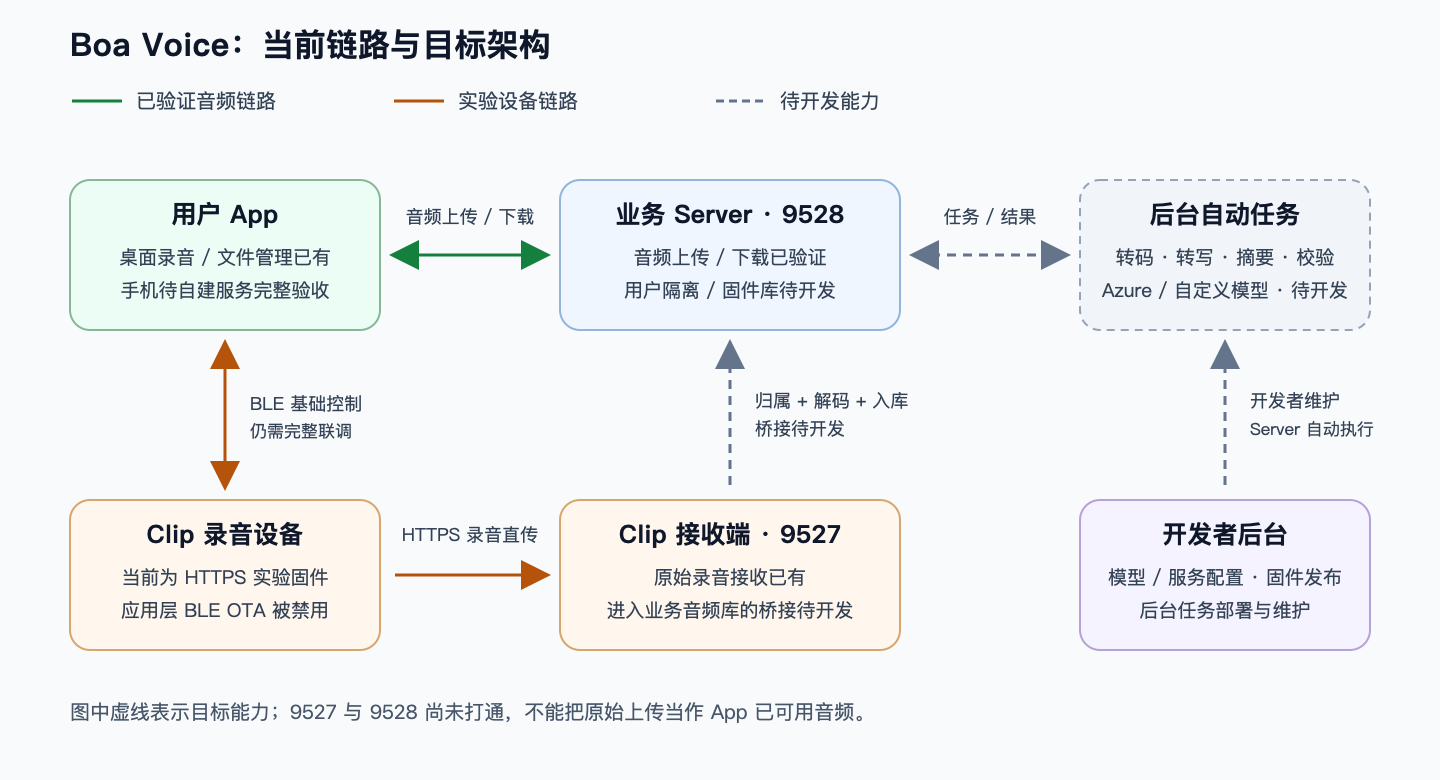
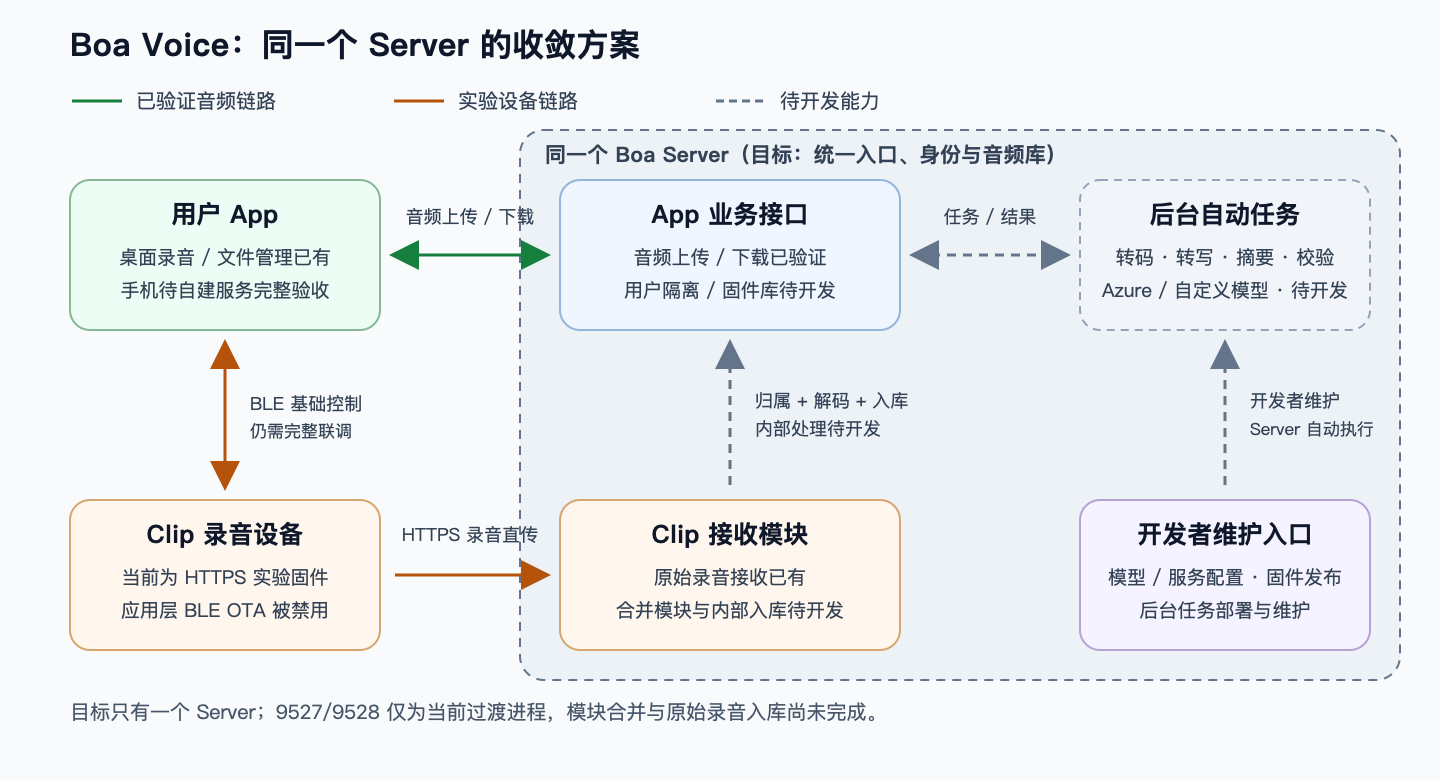
docs: converge Clip ingest and business modules into one Boa Server

diff --git a/docs/product/boa-voice-overview.md b/docs/product/boa-voice-overview.md
@@ -6,14 +6,16 @@
 
 ## 1. 整体关系
 
-![Boa Voice 当前链路与目标架构](images/boa-voice-overview.png)
+![Boa Voice 同一 Server 收敛架构](images/boa-voice-overview.png)
 
 绿色实线为已验证的音频链路，橙色为实验设备链路，灰色虚线为待开发能力。图中的后台任务由开发者实现、部署和维护，运行时由 Server 自动执行，**不是每条录音都要开发者手工处理**。
 
-两种录音入口最终要汇入同一份用户音频库：
+**最终只有一个 Boa Server。Clip 接收、App 业务接口、音频库、AI 任务和固件管理都是它内部的模块，统一服务地址、用户身份和资源归属；原始录音转成可播放文件也是 Server 内部流程。** 当前同一开发机上的 9527 接收进程与 9528 音频进程尚未合并，这是过渡部署状态。
+
+两种录音入口最终汇入这个 Server 的同一份用户音频库：
 
 - **麦克风路径：**App 录音 → 上传 Server → 用户自己的音频库。这条上传/下载链路已验证。
-- **Clip 路径：**Clip 联网上传 → 原始录音接收 → 确认用户归属、转换标准音频 → 同一音频库。目前只到原始接收，后半段桥接待开发。
+- **Clip 路径：**Clip 联网上传同一个 Server 的接收模块 → 确认用户归属、转换标准音频 → 同一音频库。当前实验原始接收已有，模块合并和后半段入库待开发。
 
 ## 2. 只有两类角色
 
@@ -33,7 +35,7 @@
 | Mac 桌面 App | 已有麦克风录音、暂停/继续、文件管理/播放、自动备份和 Clip 基础连接入口 | 新集成版本完整界面验收；连接自建身份、AI 和固件接口 |
 | Android / iPhone | 仓库已有手机 App 和 SDK，可参考设备连接与升级流程 | 尚未完成自建服务下的双端完整验收 |
 | 音频 Server | 9528 HTTPS，磁盘 + SQLite，分片上传、校验、Range 下载已有；Mac 同一客户端真实跨机器三轮测试通过 | 当前是单用户 token，尚无用户之间的数据隔离；已安装 GUI 未配置当前开发证书 |
-| Clip 直传 | Roger 实验固件已有 STA/HTTPS 录音上传与独立接收服务 | 原始 Opus 不能直接当作 App 音频；需归属、解码和入库桥接，仍需完整硬件联调 |
+| Clip 直传 | Roger 实验固件已有 STA/HTTPS 录音上传；目前接收进程运行在同一开发机的 9527 | 原始 Opus 不能直接当作 App 音频；需归属、解码和入库桥接，仍需完整硬件联调 |
 | 转写 / 摘要 | 已有服务端接口和模型适配设计 | 后台任务、Azure/自定义模型接入和结果展示尚未完成 |
 | 固件管理 | 已有固件库、分发、升级流程设计；SDK 有可参考的升级实现 | 版本库/发布尚未实现；当前 HTTPS 固件拒绝应用 DFU，不能直接开启 BLE OTA |
 
@@ -53,14 +55,16 @@
 
 ## 5. Server 与 endpoint
 
-App 配置业务 Server 根地址；开发环境示例为 `https://100.58.19.213:9528`，路径由客户端追加，不要求用户手填整条 API。
+目标是 App 和 Clip 指向同一个 Server 根地址，由各自协议追加不同路径；App 使用用户身份，Clip 使用绑定该用户的设备凭据。开发环境业务地址当前为 `https://100.58.19.213:9528`；最终入口随部署确定，9527/9528 不是两套产品服务的固定边界。
 
 | 入口 | 用途 | 状态 |
 | --- | --- | --- |
 | `/api/audio` | 标准音频上传、列表和下载 | 已有；保持路径兼容，后续补用户归属校验 |
 | `/api/boa/v1` | 内容处理任务、转写和摘要结果 | 规划中；开发者配置模型与后台执行流程 |
 | `/api/boa/v1/firmware` | 已发布固件、用户设备升级与开发者管理 | 规划中；按用户/开发者两种权限简化 |
-| `https://100.58.19.213:9527` 的 `/v1`、`/v2` | Clip 原始录音接收 | Roger 的独立服务，与 9528 尚未打通；不是普通用户再配置一套音频库 |
+| `/v2/devices/...` | 同一个 Server 内的 Clip 原始录音接收模块 | 实验 V2 协议已有；目前仍在 9527 进程，待并入统一入口与音频入库流程 |
+
+设备 V2 路径和续传回执保持兼容；模块间通过内部任务和发布接口协作，不再规划独立的“接收 Server → 业务 Server”产品链路。合并还需适配设备鉴权、用户归属和原始音频转换，不能仅把端口改成相同。
 
 远程使用可验证 HTTPS。普通用户凭据用于本人业务请求，不能因此获得开发者权限；旧共享 token 不升级成后台管理凭据。目标是统一用户身份，不为音频、AI、固件各做一套独立用户账号。模型 API key 留在 Server，用户 App 不保存供应商密钥，也不在自建服务失败时回退官方云。
 
@@ -83,7 +87,7 @@ Server 固件库和版本分发可以先做；真正刷机必须在目标设备/
 | 1. 身份与隔离 | 两角色、用户身份、资源归属、设备绑定、旧数据迁移 | 两个用户交叉测试，无法读取、修改、下载或处理彼此内容 |
 | 2. 开发者后台 | 音频处理 Worker、模型配置、转写/摘要串联；固件校验、版本库与发布 | App 退出后已受理任务仍继续；结果归属正确；发布包不可悄悄替换 |
 | 3. 用户 App 接入 | 本人内容、处理结果、设备及可用固件；统一 Server 配置 | 用户不用接触密钥、队列、固件发布，也能完成业务流程 |
-| 4. 硬件闭环 | Clip 直传桥接、固件升级通道、配置保留和异常恢复 | 目标设备实测录音入库/播放/处理及安全升级，分别记录证据 |
+| 4. 硬件闭环 | Clip 接收并入统一 Server、内部音频入库、固件升级通道、配置保留和异常恢复 | 目标设备实测录音入库/播放/处理及安全升级，分别记录证据 |
 
 这些是推进顺序，不新增组织、团队、审批流或多级角色，也不把本轮文档工作算成功能已完成。当前不部署新模块、不刷机、不发布安装包。
 

diff --git a/docs/contracts/clip-ingest-app-server-bridge.md b/docs/contracts/clip-ingest-app-server-bridge.md
@@ -2,9 +2,9 @@
 
 **职责与隔离以 [统一总览](../product/boa-voice-overview.md) 为准。** 本文 owner_id 对应统一用户身份 owner_user_id；设备凭据须经有效绑定确定归属，后台解码/发布继承该归属。未绑定片段不能自动归入任意用户；共享实验 token 尚不是多用户方案。
 
-**版本：0.1 评审草案｜日期：2026-10-22｜状态：接入方案未实现。**
+**版本：0.2 评审草案｜日期：2026-10-22｜状态：接入方案未实现。**
 
-本稿以 BofAI `experiment/https-runtime-0.1.2` 的 **`cfff60539d94c6d3e43f788592b97a76547278fe`** 为实验实现基线。已有设备直传不从零重写；本稿定义它如何进入我们的音频库和服务端 AI 流程。现有代码、仓库实测记录和计划新增功能分开标记。
+本稿以 BofAI `experiment/https-runtime-0.1.2` 的 **`cfff60539d94c6d3e43f788592b97a76547278fe`** 为实验实现基线。已有设备直传不从零重写；本稿定义它如何作为同一个 Boa Server 的接收模块进入音频库和 AI 流程；“桥接”指内部格式/数据接口适配，不是另建一套 Server。现有代码、仓库实测记录和计划新增功能分开标记。
 
 配套：[已实现/待补对照](../superpowers/specs/2026-10-22-clip-direct-server-upload-design.md)、[音频 HTTP v1](storage-http-v1.md)、[AI HTTP v1 草案](ai-http-v1.md)。本轮只更新文档，不部署接收服务、不更改设备配置、不刷机。
 
@@ -18,7 +18,7 @@
 
 **推荐：服务端增加兼容接收适配器和转换入库模块，保留设备 V2 路径/回执；App 继续读取标准音频接口。** `/api/boa/device/v1` 是旧方案提出的未来新协议，不是实验固件已使用的接口，首期不强迫设备切换。
 
-整合方式优先选“同一 Boa 服务内隔离的设备路由 + 持久处理 Worker + 音频库发布接口”。复用实验 ResumeStore 的校验/续传规则，不能直接把测试用 ThreadingHTTPServer 当成生产模块嵌入事件循环。备选为独立接收进程加桥接服务，但它还需额外的可靠事件和幂等发布接口；本稿不默认选双进程共享写数据库。
+整合方式确定为“同一个 Boa Server 内的设备路由 + 持久处理 Worker + 音频库内部发布接口”，统一对外根地址、身份归属与音频目录。当前同一开发机的 9527/9528 进程只是过渡部署，不保留为两套产品 Server。复用实验 ResumeStore 的校验/续传规则，不能直接把测试用 ThreadingHTTPServer 当成生产模块嵌入事件循环。后台 Worker 可独立运行进程，但仍属于同一 Server，不形成第二套用户服务或身份体系。
 
 当前 FastAPI 中间件对所有请求校验同一个用户存储 token，**新增 router 本身并不足以接通**。需要按已注册的路由边界分别校验 V2 设备身份和 `/api/audio`/用户 API 身份，再将受信 principal 传入用例；不能直接全局放行 `/v2`，也不能使设备 token 获得用户音频库权限。旧用户 token 的行为保持兼容。
 
@@ -81,7 +81,7 @@ created_at / received_at（原始片段完整提交前为 null） / updated_at
 
 ## 5. 标准音频发布：让当前 App 真正看得见
 
-**不能**直接将 `.bin` 搬到 `services/audio_storage/files`，也不能在接收服务里随意 INSERT uploads。标准库只通过它自己拥有的发布接口写元数据和字节。
+**不能**直接将 `.bin` 搬到 `services/audio_storage/files`，也不能在同一 Server 的接收模块里随意 INSERT uploads。标准库只通过它自己拥有的发布接口写元数据和字节。
 
 建议新增内部接口（不是现有 HTTP API）：
 

diff --git a/README-integration.md b/README-integration.md
@@ -4,7 +4,7 @@
 
 分支：`boa/desktop-https-integration`。桌面与实验固件已完成代码集成；音频 Server 后续已部署至开发机并通过服务器内验证。未发布 App 安装包、未安装本分支 App、未刷机。
 
-开发机为 `bobo@100.58.19.213`。Boa 音频库现使用 **`https://100.58.19.213:9528`**，Mac 上桌面同一客户端已完成真实跨机器音频传输；不依赖 SSH 转发。见 [当前部署与证书说明](docs/development/server-100.58.19.213.md)、[桌面 HTTP 验证](docs/development/2026-10-22-desktop-http-status.md)。Roger 的 9527 仍是独立 Clip 接收端；已安装 GUI App 尚未配置这份开发证书。早期 [部署验证记录](docs/development/2026-10-22-server-deployment-verification.md) 保留当时的 loopback 状态。
+开发机为 `bobo@100.58.19.213`。Boa 音频库现使用 **`https://100.58.19.213:9528`**，Mac 上桌面同一客户端已完成真实跨机器音频传输；不依赖 SSH 转发。见 [当前部署与证书说明](docs/development/server-100.58.19.213.md)、[桌面 HTTP 验证](docs/development/2026-10-22-desktop-http-status.md)。Roger 的 9527 是同一开发机上暂时单独运行的 Clip 接收进程；目标并入同一个 Boa Server，统一入口和内部音频入库；已安装 GUI App 尚未配置这份开发证书。早期 [部署验证记录](docs/development/2026-10-22-server-deployment-verification.md) 保留当时的 loopback 状态。
 
 ## 集成来源
 

diff --git a/docs/superpowers/specs/2026-10-22-clip-direct-server-upload-design.md b/docs/superpowers/specs/2026-10-22-clip-direct-server-upload-design.md
@@ -6,6 +6,8 @@
 
 **阅读顺序：**先看本文的状态对照，再看 [实验直传 → Boa App/Server 接入契约](../../contracts/clip-ingest-app-server-bridge.md)。原 [App 设备契约](../../contracts/clip-device-v1.md)、[音频存储](../../contracts/storage-http-v1.md)、[服务端 AI 草案](../../contracts/ai-http-v1.md)继续各自维护现有行为/规划边界。
 
+**统一架构补充：**按 [总览](../../product/boa-voice-overview.md)，Clip 接收和业务接口最终收敛在同一个 Boa Server；当前 9527/9528 是同一开发机上的过渡进程，不能画成长期两套服务。保留设备 V2 兼容路径，内部完成归属、转码和音频发布；模块合并尚未实现。
+
 ## 1. 本次审视的版本与证据
 
 | 对象 | 已检查基线 | 结论 |
